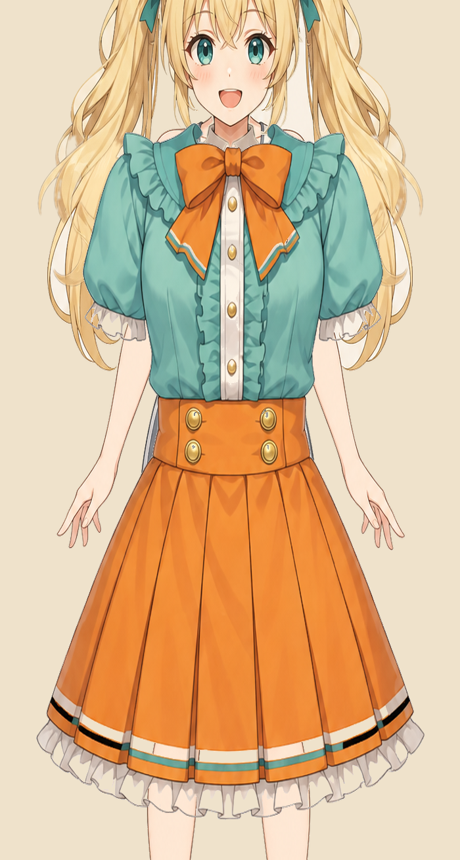
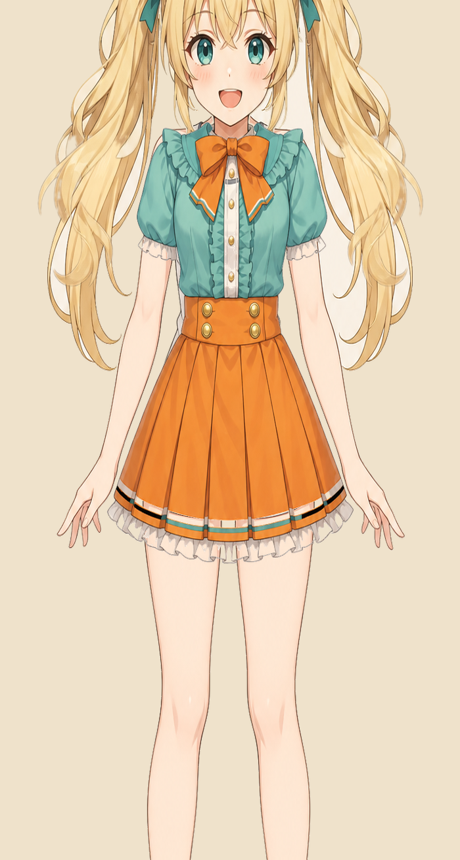
Align Maiden Teal outfit to Base via silhouette mats.
Register clothes with solid green-screen mats before applying the transform to detail art, and keep the fitting helpers in sync.

diff --git a/tools/align_outfit_by_silhouette.py b/tools/align_outfit_by_silhouette.py
@@ -1,0 +1,269 @@
+#!/usr/bin/env python3
+"""Align outfit detail to Base via solid silhouette mats on green screen.
+
+Pipeline (as intended for authoring):
+  1. Base mat  = solid fill of body/clothable region on chroma green
+  2. Outfit mat = solid fill of garment region on chroma green
+  3. Solve scale+translate so outfit mat fits the Base clothable bbox
+  4. Apply the same transform to the detailed Outfit pixels
+  5. Rebuild Mask from Outfit alpha
+
+This avoids guessing scale against shaded art; registration is silhouette-first.
+"""
+from __future__ import annotations
+
+import io
+import subprocess
+from pathlib import Path
+
+from PIL import Image
+
+ROOT = Path(__file__).resolve().parents[1]
+CHAR = ROOT / "HyperPuzzle2D/Assets/Resources/Art/Chars/Maiden"
+OUTFIT_PATH = CHAR / "Outfits/Teal/Outfit.png"
+MASK_PATH = CHAR / "Outfits/Teal/Mask.png"
+BASE_PATH = CHAR / "Base.png"
+REF = CHAR / "Ref"
+
+GREEN = (0, 255, 0, 255)
+BASE_FILL = (255, 80, 180, 255)  # magenta body mat
+OUTFIT_FILL = (60, 140, 255, 255)  # blue clothes mat
+CENTRE = 510
+SHOULDER = 327
+SLEEVE_PAD = 0.10
+SHORTS_Y_MAX = 780
+# Ignore face/collar noise above this when scanning for tank
+NECKLINE_MIN_Y = 310
+
+
+def load_head_outfit() -> Image.Image:
+    """Prefer committed (pre-tweak) Teal outfit as detail source."""
+    data = subprocess.check_output(
+        ["git", "show", "HEAD:HyperPuzzle2D/Assets/Resources/Art/Chars/Maiden/Outfits/Teal/Outfit.png"]
+    )
+    return Image.open(io.BytesIO(data)).convert("RGBA")
+
+
+def is_hair(c) -> bool:
+    r, g, b, a = c
+    if a < 40:
+        return False
+    return r > 190 and g > 155 and b > 100 and g < r + 25 and b < r - 15
+
+
+def is_dark_trim(c) -> bool:
+    r, g, b, a = c
+    if a < 40:
+        return False
+    return r < 140 and g < 130 and b < 120 and abs(r - g) < 25
+
+
+def is_tank_body(c) -> bool:
+    """Warm off-white tank fill (not skin-pink dominant)."""
+    r, g, b, a = c
+    if a < 40:
+        return False
+    if r < 200 or g < 190 or b < 170:
+        return False
+    if abs(r - g) > 40:
+        return False
+    # exclude strong skin (r much higher than b saturation)
+    if r > 240 and b < 200 and g < 210:
+        return False
+    return True
+
+
+def is_shorts(c) -> bool:
+    r, g, b, a = c
+    if a < 40:
+        return False
+    return 70 < r < 165 and abs(r - g) < 22 and abs(g - b) < 22 and r + g + b < 430
+
+
+def find_neckline_y(base: Image.Image) -> int:
+    """First row with dark tank trim near centre."""
+    bp = base.load()
+    w, _h = base.size
+    for y in range(NECKLINE_MIN_Y, SHOULDER + 80):
+        n = sum(
+            1
+            for x in range(CENTRE - 90, CENTRE + 91)
+            if is_dark_trim(bp[x, y])
+        )
+        if n >= 8:
+            return y
+    return SHOULDER
+
+
+def rebuild_base_mat_clean(base: Image.Image) -> Image.Image:
+    """Magenta = tank+shorts (+ light upper-arm sleeve zone) on green."""
+    w, h = base.size
+    bp = base.load()
+    mat = Image.new("RGBA", (w, h), GREEN)
+    mp = mat.load()
+    neck_y = find_neckline_y(base)
+    print("detected neckline y", neck_y)
+    for y in range(neck_y, SHORTS_Y_MAX):
+        for x in range(w):
+            c = bp[x, y]
+            if c[3] < 40 or is_hair(c):
+                continue
+            if is_tank_body(c) or is_shorts(c) or is_dark_trim(c):
+                mp[x, y] = BASE_FILL
+            elif (
+                neck_y <= y <= neck_y + 140
+                and 90 < abs(x - CENTRE) < 180
+                and c[0] > 165
+                and c[1] > 115
+                and c[0] > c[1] + 2
+            ):
+                # upper-arm sleeve pad (skin)
+                mp[x, y] = BASE_FILL
+    return mat
+
+
+def build_outfit_mat(outfit: Image.Image) -> Image.Image:
+    w, h = outfit.size
+    op = outfit.load()
+    mat = Image.new("RGBA", (w, h), GREEN)
+    mp = mat.load()
+    for y in range(h):
+        for x in range(w):
+            if op[x, y][3] > 40:
+                mp[x, y] = OUTFIT_FILL
+    return mat
+
+
+def mat_bbox(mat: Image.Image, fill_rgb) -> tuple[int, int, int, int]:
+    px = mat.load()
+    w, h = mat.size
+    xs, ys = [], []
+    fr, fg, b = fill_rgb
+    for y in range(h):
+        for x in range(w):
+            r, g, bb, _a = px[x, y]
+            if (r, g, bb) == (fr, fg, b):
+                xs.append(x)
+                ys.append(y)
+    if not xs:
+        raise RuntimeError("empty mat")
+    return min(xs), min(ys), max(xs) + 1, max(ys) + 1
+
+
+def torso_core_bbox(base_mat: Image.Image) -> tuple[int, int, int, int]:
+    """Tight bbox of clothable mat; pad width slightly for short sleeves."""
+    w, h = base_mat.size
+    px = base_mat.load()
+    xs, ys = [], []
+    for y in range(h):
+        for x in range(CENTRE - 170, CENTRE + 171):
+            if px[x, y][:3] == BASE_FILL[:3]:
+                xs.append(x)
+                ys.append(y)
+    if not xs:
+        return mat_bbox(base_mat, BASE_FILL[:3])
+    x0, x1 = min(xs), max(xs) + 1
+    y0, y1 = min(ys), max(ys) + 1
+    half = (x1 - x0) / 2
+    pad = int(half * SLEEVE_PAD)
+    return max(0, x0 - pad), y0, min(w, x1 + pad), y1
+
+
+def align_outfit(
+    outfit: Image.Image,
+    src_bbox: tuple[int, int, int, int],
+    dst_bbox: tuple[int, int, int, int],
+    canvas_size: tuple[int, int],
+) -> Image.Image:
+    """Width-fit to clothable; pin garment top to Base neckline."""
+    sx0, sy0, sx1, sy1 = src_bbox
+    dx0, dy0, dx1, dy1 = dst_bbox
+    crop = outfit.crop((sx0, sy0, sx1, sy1))
+    dw = dx1 - dx0
+    sw, sh = crop.size
+    scale = dw / sw
+    nw, nh = max(1, int(sw * scale)), max(1, int(sh * scale))
+    if dy0 + nh > canvas_size[1] - 40:
+        scale = (canvas_size[1] - 40 - dy0) / sh
+        nw, nh = max(1, int(sw * scale)), max(1, int(sh * scale))
+    scaled = crop.resize((nw, nh), Image.LANCZOS)
+    out = Image.new("RGBA", canvas_size, (0, 0, 0, 0))
+    x = dx0 + (dw - nw) // 2
+    y = dy0
+    out.alpha_composite(scaled, (x, y))
+    return out
+
+
+def clear_face(outfit: Image.Image, neck_y: int) -> None:
+    op = outfit.load()
+    for y in range(0, max(0, neck_y - 25)):
+        for x in range(CENTRE - 110, CENTRE + 111):
+            if op[x, y][3] > 40:
+                op[x, y] = (0, 0, 0, 0)
+
+
+def main() -> None:
+    REF.mkdir(parents=True, exist_ok=True)
+    base = Image.open(BASE_PATH).convert("RGBA")
+    outfit_src = load_head_outfit()
+    w, h = base.size
+
+    base_mat = rebuild_base_mat_clean(base)
+    neck_y = find_neckline_y(base)
+    outfit_mat = build_outfit_mat(outfit_src)
+    base_mat.save(REF / "BaseMat.png")
+    outfit_mat.save(REF / "OutfitMat.png")
+
+    src_bb = mat_bbox(outfit_mat, OUTFIT_FILL[:3])
+    dst_bb = torso_core_bbox(base_mat)
+    print("outfit mat bbox", src_bb)
+    print("base clothable bbox (padded)", dst_bb)
+
+    aligned = align_outfit(outfit_src, src_bb, dst_bb, (w, h))
+    clear_face(aligned, neck_y)
+    aligned.save(OUTFIT_PATH)
+
+    # aligned mat preview
+    aligned_mat = build_outfit_mat(aligned)
+    # overlay mats for QA: base magenta + outfit blue on green
+    overlay = base_mat.copy()
+    op = overlay.load()
+    am = aligned_mat.load()
+    for y in range(h):
+        for x in range(w):
+            if am[x, y][:3] == OUTFIT_FILL[:3]:
+                # blend blue over magenta where both
+                if op[x, y][:3] == BASE_FILL[:3]:
+                    op[x, y] = (180, 100, 220, 255)
+                else:
+                    op[x, y] = OUTFIT_FILL
+    overlay.save(REF / "AlignOverlay.png")
+
+    mask = Image.new("RGBA", (w, h), (0, 0, 0, 0))
+    mp = mask.load()
+    ap = aligned.load()
+    for y in range(h):
+        for x in range(w):
+            if ap[x, y][3] > 40:
+                mp[x, y] = (255, 255, 255, 255)
+    mask.save(MASK_PATH)
+
+    paper = (239, 226, 203, 255)
+    torn = Image.alpha_composite(Image.new("RGBA", (w, h), paper), base)
+    clothed = Image.alpha_composite(torn, aligned)
+    clothed.crop((160, 180, 860, 1150)).resize((460, 860)).save(REF / "ClothedPreview.png")
+    torn.crop((160, 180, 860, 1150)).resize((460, 860)).save(REF / "TornPreview.png")
+    clothed.crop((120, 280, 900, 700)).resize((520, 280)).save(REF / "SleeveDetail.png")
+
+    # side-by-side mats
+    bm = base_mat.crop((200, 280, 820, 1000)).resize((300, 520))
+    om = aligned_mat.crop((200, 280, 820, 1000)).resize((300, 520))
+    canvas = Image.new("RGB", (620, 520), (0, 180, 0))
+    canvas.paste(bm, (0, 0))
+    canvas.paste(om, (320, 0))
+    canvas.save(REF / "MatCompare.png")
+    print("wrote Outfit/Mask + Ref mats/previews")
+
+
+if __name__ == "__main__":
+    main()

diff --git a/tools/adapt_maiden_outfit_to_base.py b/tools/adapt_maiden_outfit_to_base.py
@@ -201,14 +201,14 @@ def main():
     bp = base.load()
 
     cc, avg_bg = extract_clothes(CLOTHES, w, h)
-    # Fit to original outfit footprint (known-good paper alignment), slightly wider for Base arms
+    # Base is slimmer than the paper-art clothes; shrink to ~78% width / 82% height.
     orig_o = Image.open(OUTFIT_DIR / "Outfit.png").convert("RGBA")
     obb = orig_o.split()[-1].getbbox()
-    target_w = int((obb[2] - obb[0]) * 1.02)
-    target_h = int(cc.size[1] * (target_w / cc.size[0]))
+    target_w = int((obb[2] - obb[0]) * 0.78)
+    target_h = int(cc.size[1] * (target_w / cc.size[0]) * (0.82 / 0.78))
     cs = cc.resize((target_w, target_h), Image.LANCZOS)
     x0 = CENTRE - target_w // 2
-    y0 = SHOULDER - 8
+    y0 = SHOULDER
     outfit = Image.new("RGBA", (w, h), (0, 0, 0, 0))
     outfit.alpha_composite(cs, (x0, y0))
     op = outfit.load()
